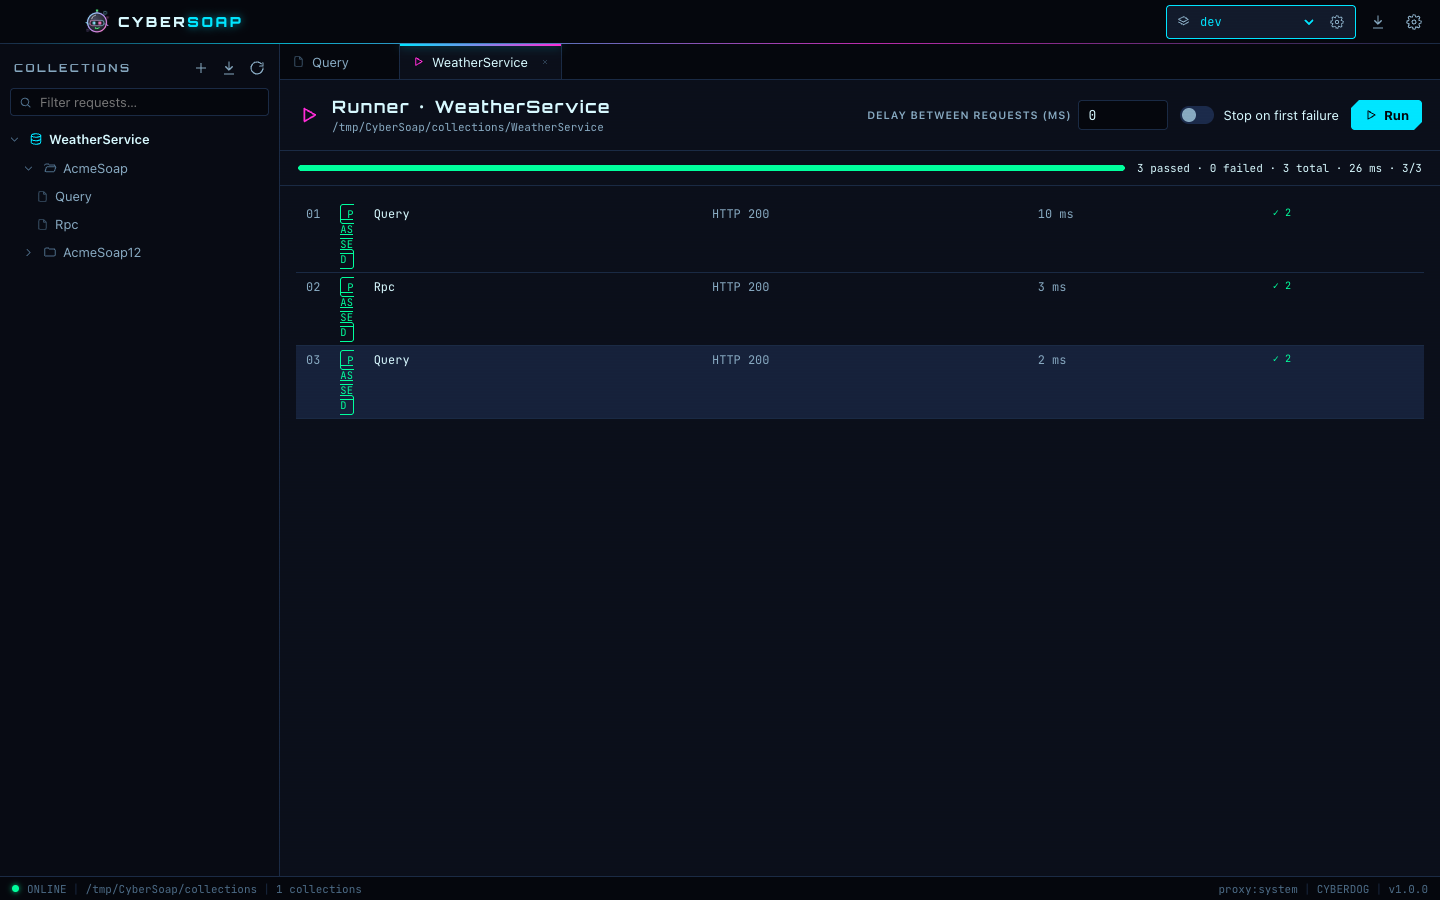
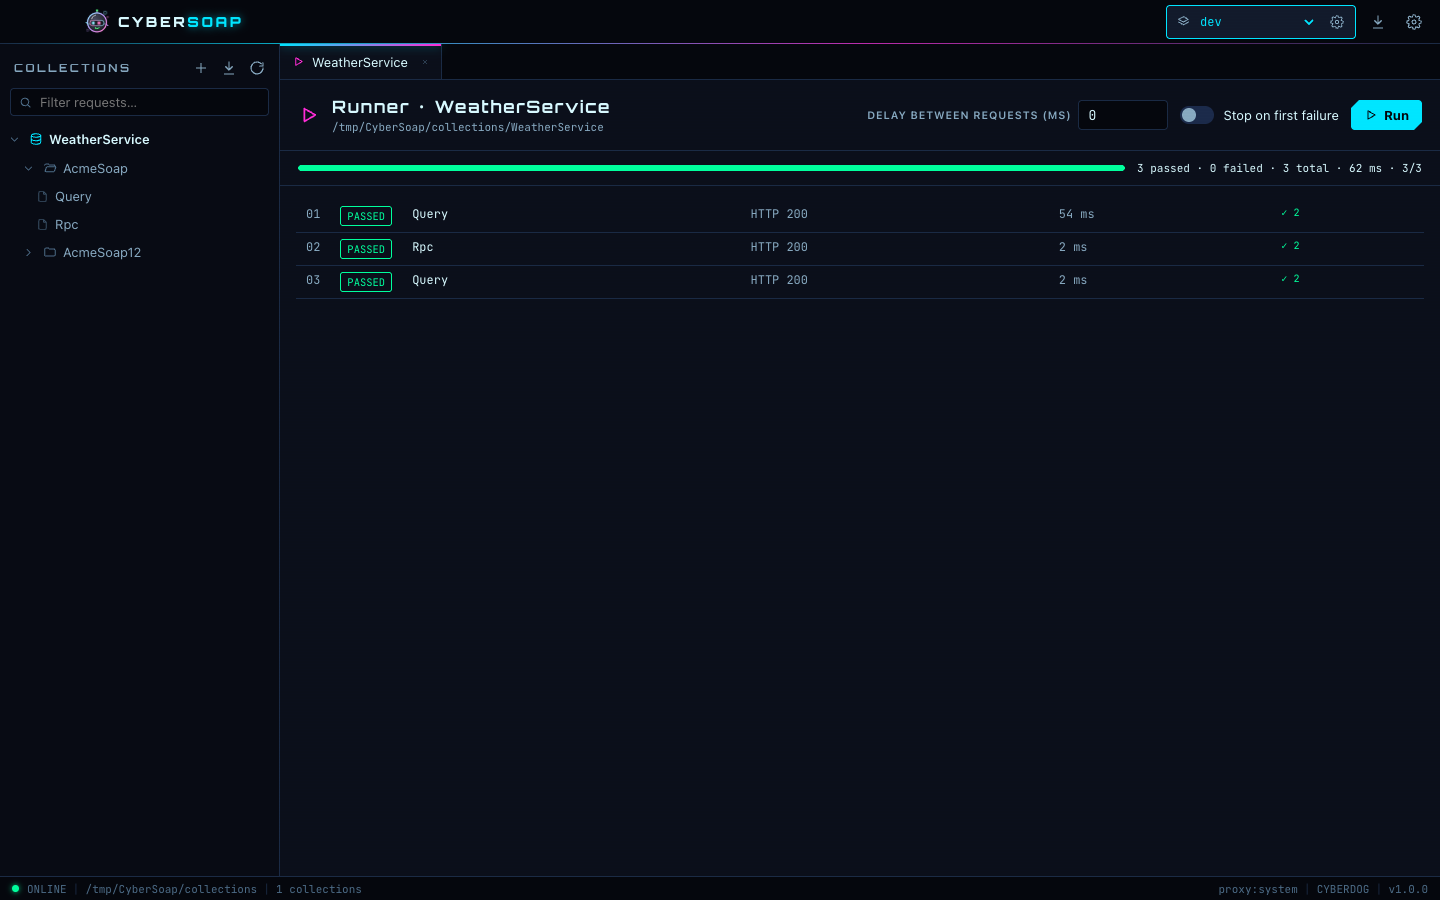
Fix runner status column wrapping; complete README
- Runner: keep status badge, HTTP status and time on one line
- Refresh runner screenshot used by the README and the site
- README: getting started, full guide (WSDL, editor, variables, auth,
  assertions, extractors, runner, ordering, import/export), file formats,
  settings, network/proxy, updates, troubleshooting, architecture

diff --git a/src/renderer/src/styles.css b/src/renderer/src/styles.css
@@ -1489,6 +1489,8 @@ kbd {
   cursor: pointer;
 }
 .run-state {
+  display: inline-block;
+  white-space: nowrap;
   font-family: var(--font-mono);
   font-size: 10.5px;
   text-transform: uppercase;
@@ -2118,6 +2120,11 @@ pre {
 .runner-table td:nth-child(1),
 .runner-table td:nth-child(2) {
   width: 1%;
+  white-space: nowrap;
+}
+.runner-table td:nth-child(4),
+.runner-table td:nth-child(5) {
+  white-space: nowrap;
 }
 .runner-table td:nth-child(3) {
   width: 30%;
